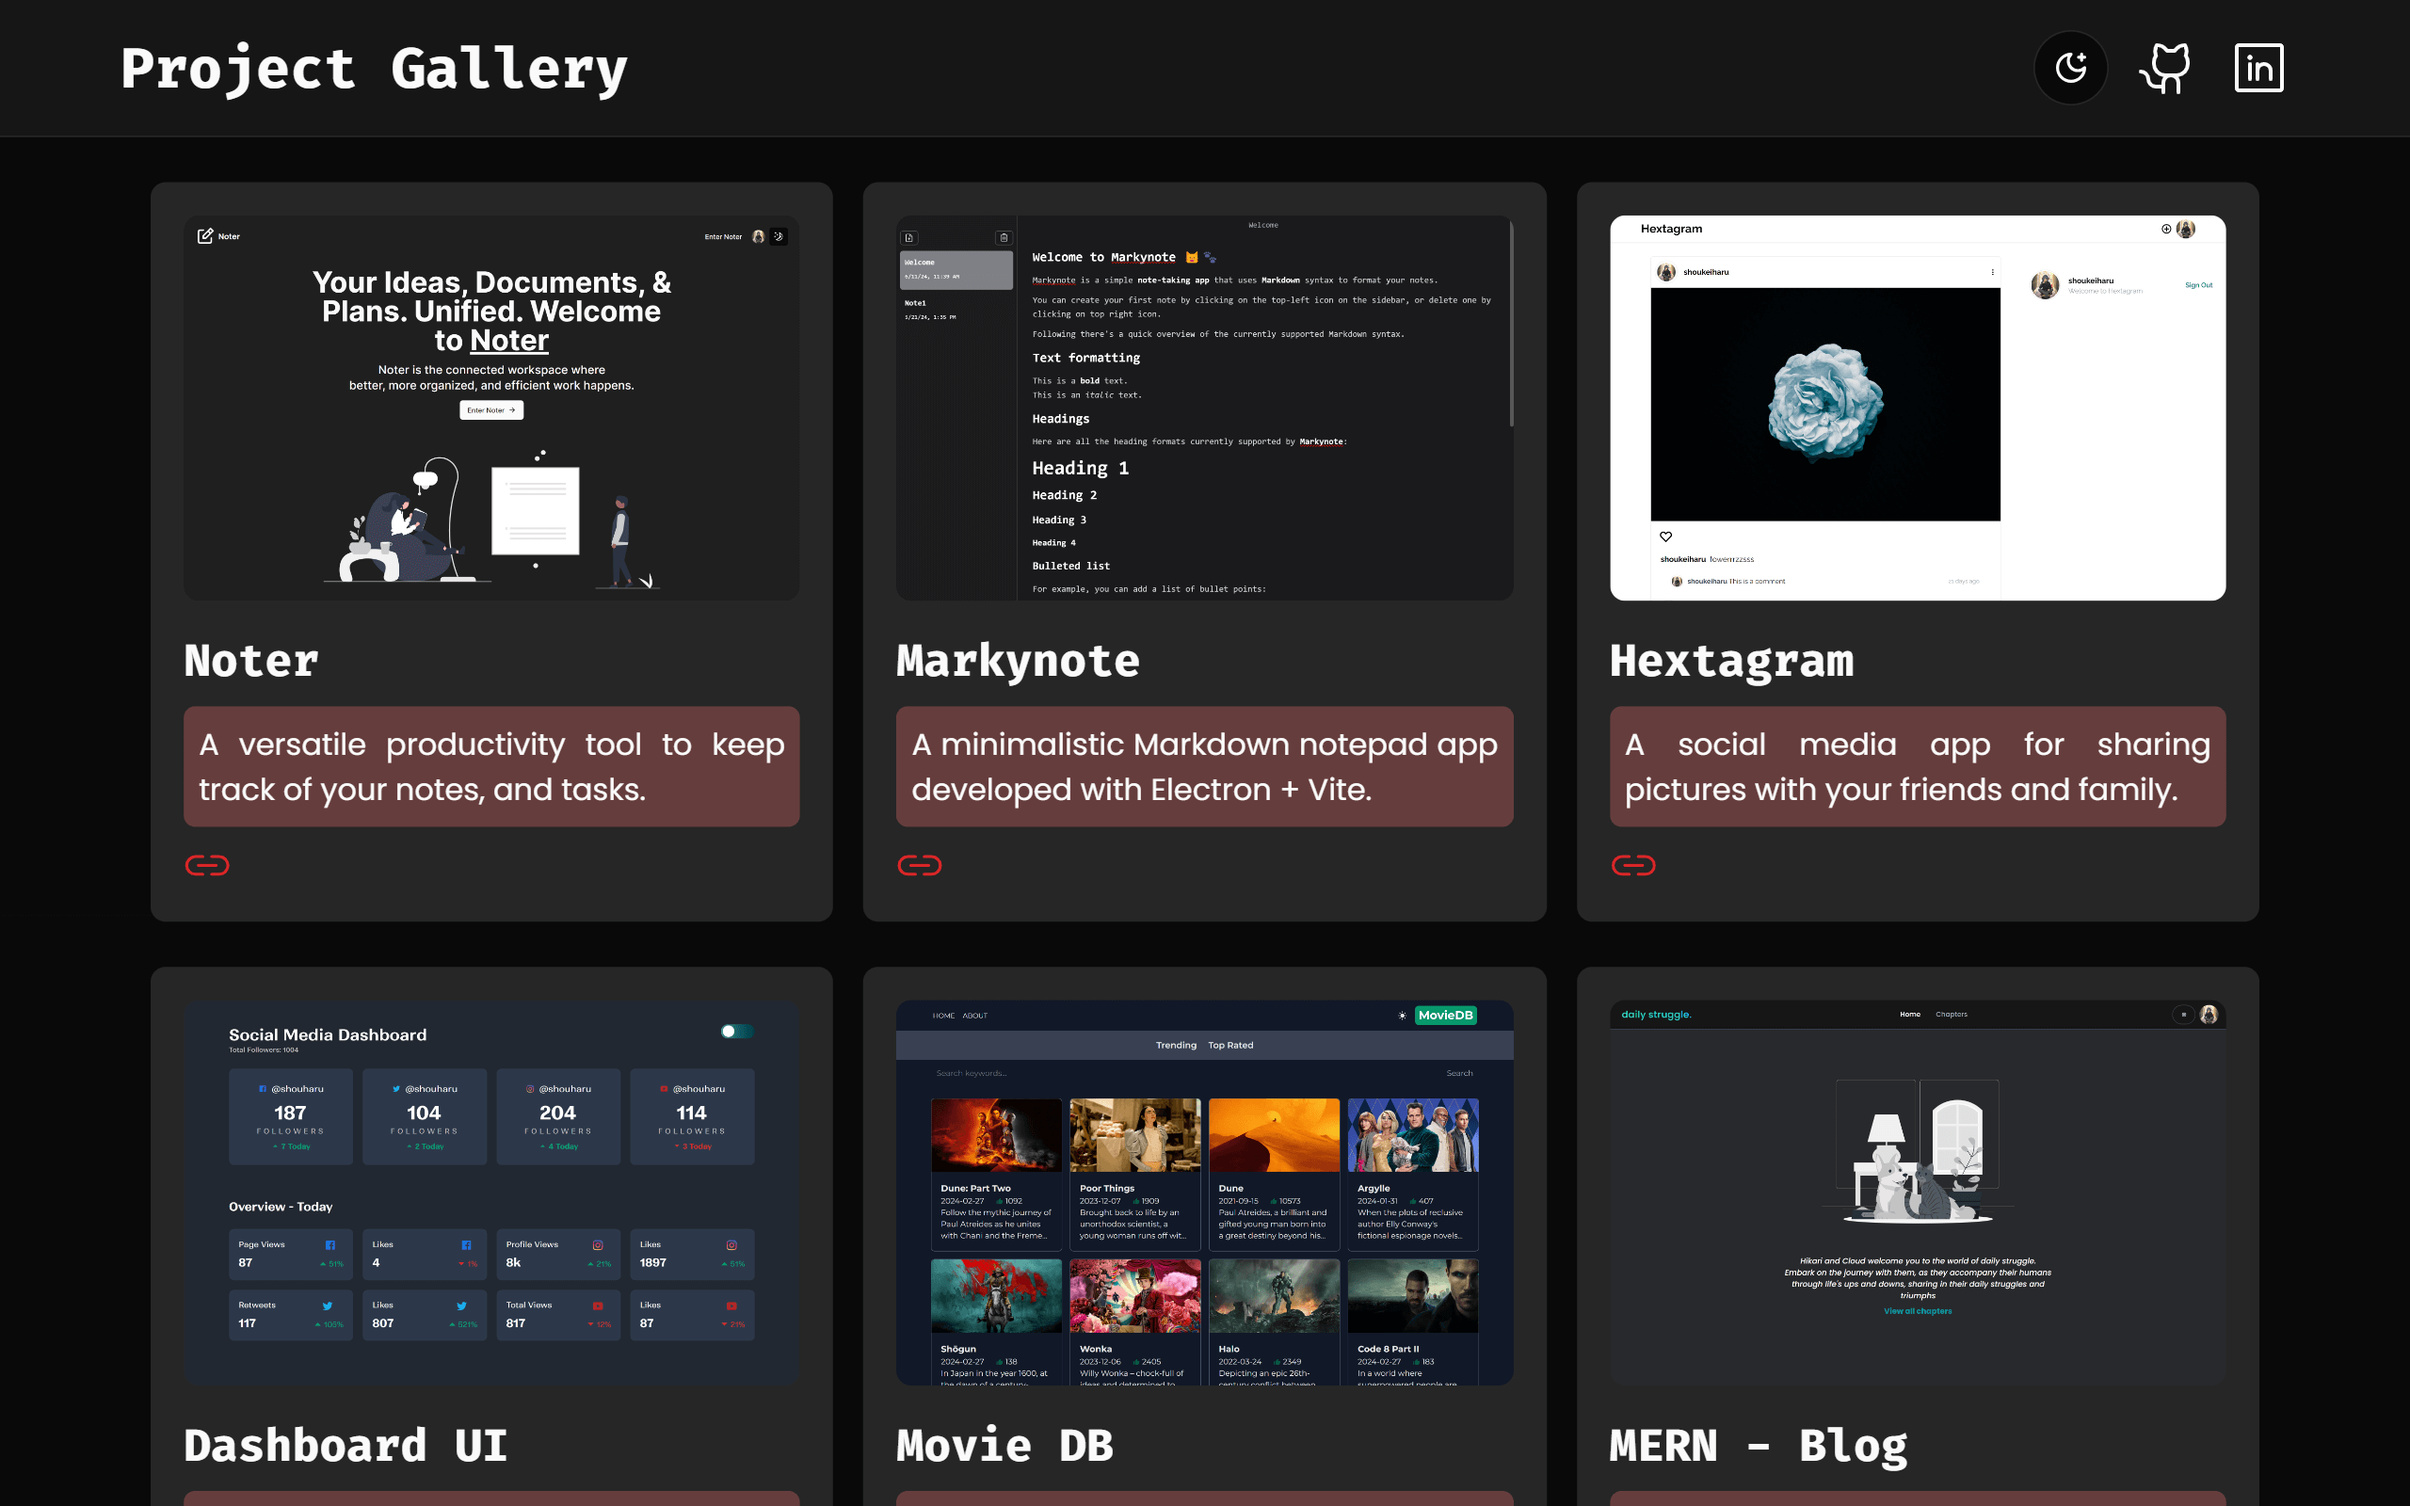
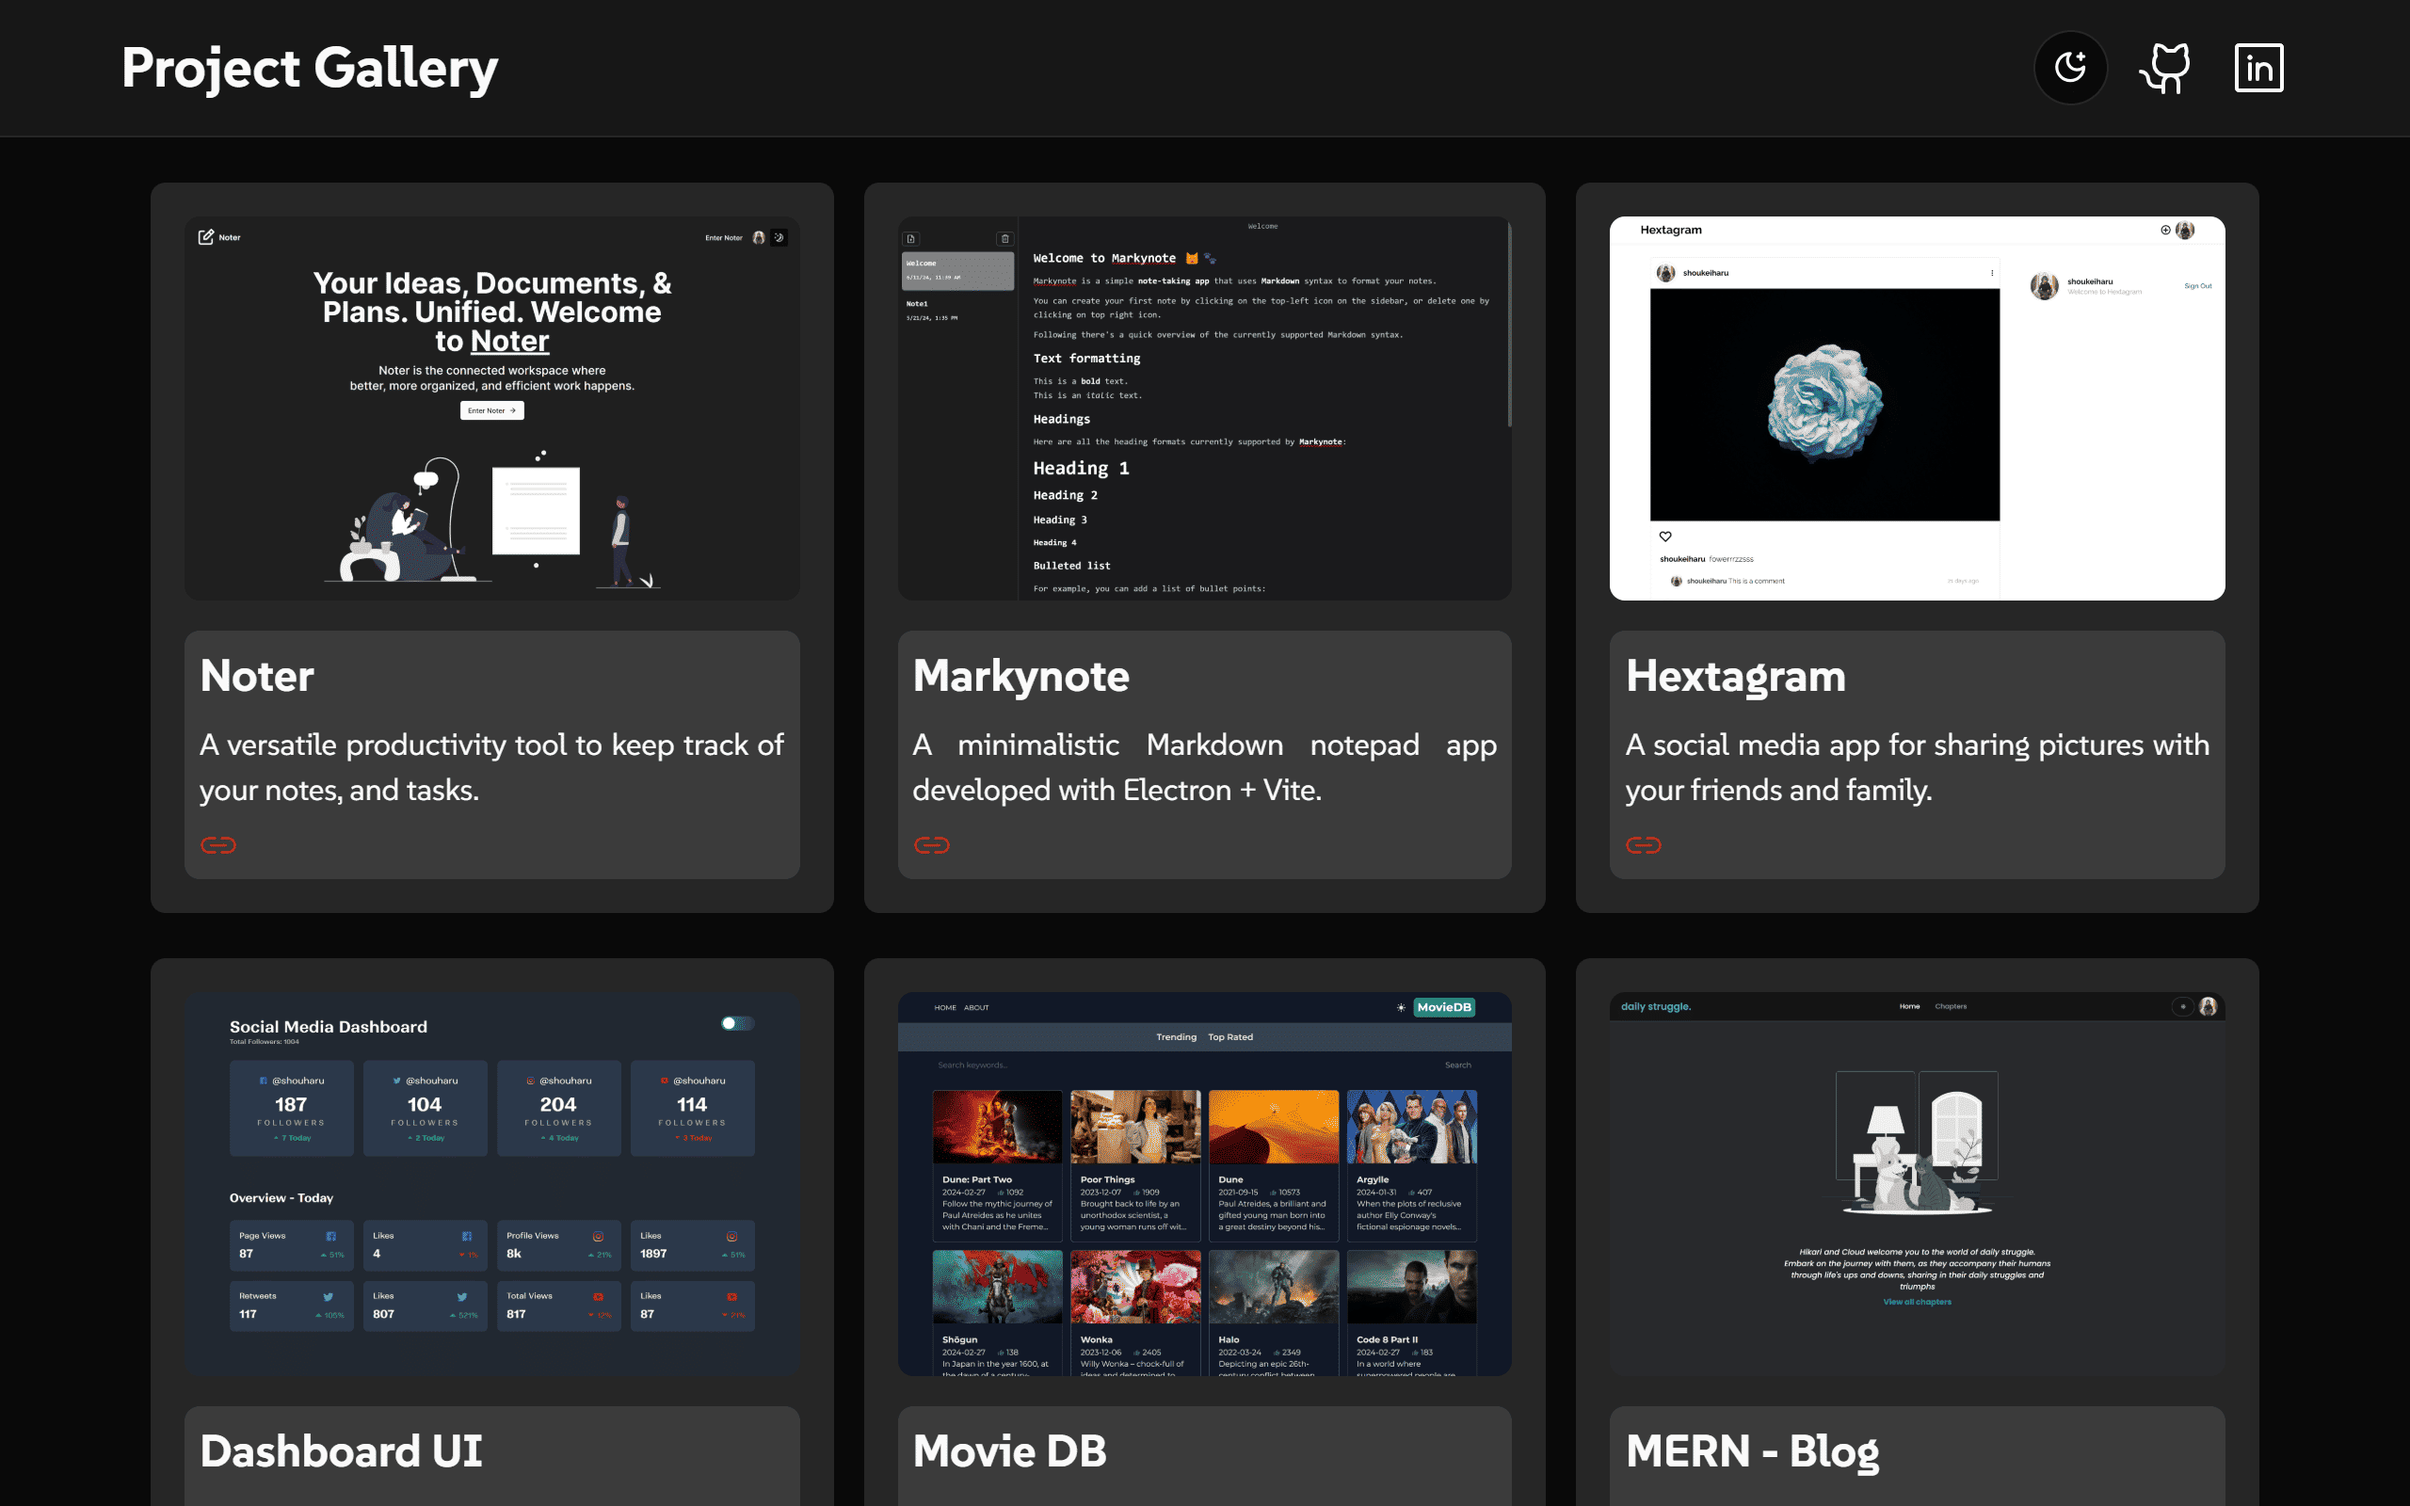
updated image paths

diff --git a/pages/works/power-bi-report.js b/pages/works/power-bi-report.js
@@ -38,16 +38,16 @@ const Work = () => (
         </ListItem>
       </List>
 
-      <WorkImage src="/images/contents/powerbi1.png" alt="powerbi-1" />
-      <WorkImage src="/images/contents/powerbi2.png" alt="powerbi-2" />
-      <WorkImage src="/images/contents/powerbi3.png" alt="powerbi-3" />
+      <WorkImage src="/images/contents/PowerBI1.png" alt="powerbi-1" />
+      <WorkImage src="/images/contents/PowerBI2.png" alt="powerbi-2" />
+      <WorkImage src="/images/contents/PowerBI3.png" alt="powerbi-3" />
 
       <List ml={4} my={4}>
         <ListItem>
           <Meta>Note</Meta>
           The data presented is confidential, and mock data has been used for
-          demonstration purposes. The dashboard design shown is a rough sketch created
-          in Power BI software.
+          demonstration purposes. The dashboard design shown is a rough sketch
+          created in Power BI software.
         </ListItem>
       </List>
     </Container>
